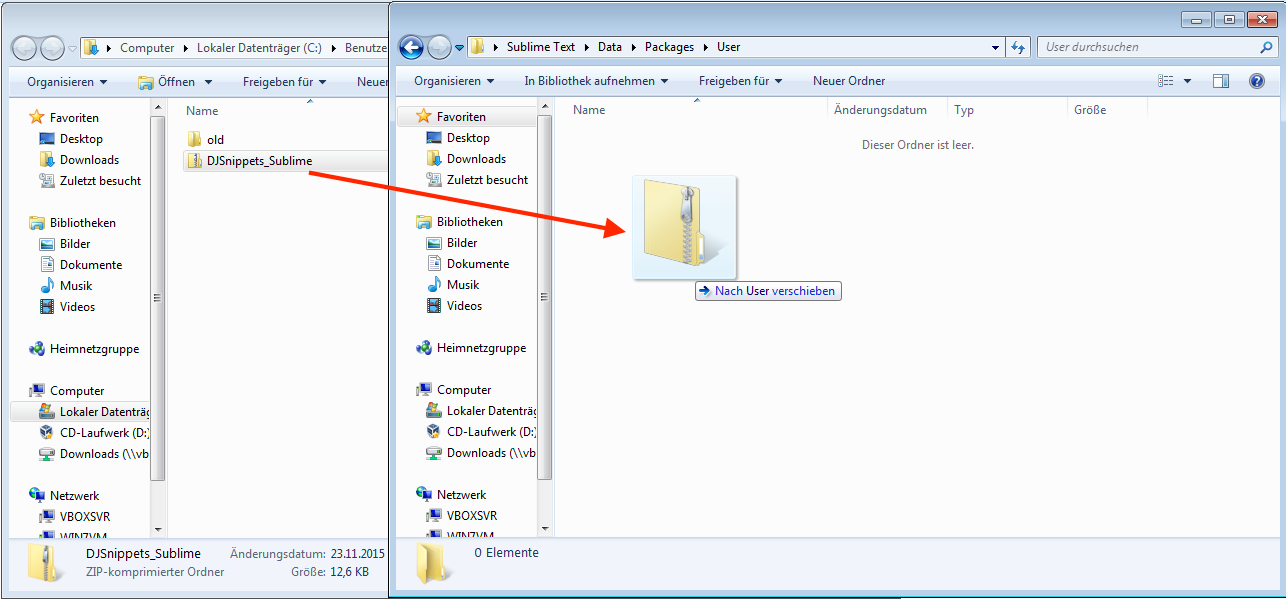
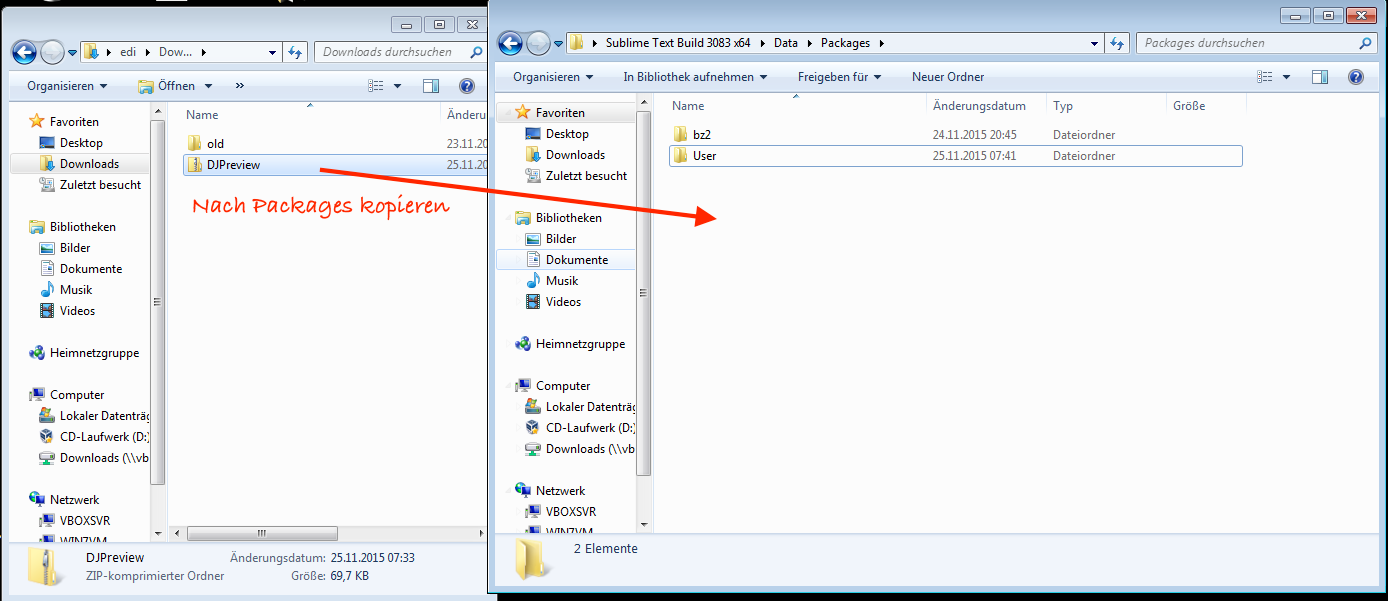
Changed doc

Changed region(s): [[0.0, 0.0, 1.0, 1.0]]

diff --git a/DJPreview.py b/DJPreview.py
@@ -3,8 +3,6 @@ import webbrowser, sys, os
 import tempfile
 import codecs
 
-# Add the directory containing your module to the Python path (wants absolute paths)
-# sys.path.append(os.path.abspath('.'))
 from .markdown2 import Markdown
 
 class DjPreviewCommand(sublime_plugin.TextCommand):

diff --git a/README.MD b/README.MD
@@ -3,7 +3,7 @@
 1. [Download der aktuellen Version von SublimeText](http://www.sublimetext.com/3) (in der Regel die Version für Windows 64-Bit, für Mac oder Linux die jeweils aktuelle Version)
 2. SublimeText starten
 3. Befehl **Windows:** "Preferences -> Browse Packages" / **Mac:** "SublimeText -> Preferences -> Browse Packages" auswählen. Es öffnet sich ein Fenster im Windows Explorer bzw. Finder (Mac). ![Befehl "Browse Packages"](https://github.com/ediathome/DJPreview/blob/master/demo/windows_01_browse_packages.png)
-4. Die [Zip-Datei](http://vt-learn.de/didplanapp/tmsnippets/DJPreview.zip) herunterladen und in den soeben geöffneten Ordner 'User' entpacken. ![Entpacken der Datei mit 7Zip](https://github.com/ediathome/DJPreview/blob/master/demo/windows_06_extract_zip.png)
+4. Die [Zip-Datei](http://vt-learn.de/didplanapp/tmsnippets/DJPreview.zip) herunterladen und in den soeben geöffneten Ordner 'Packages' entpacken. ![Entpacken der Datei mit 7Zip](https://github.com/ediathome/DJPreview/blob/master/demo/windows_06_extract_zip.png)
 
 5. In Sublime Text müssen Sie nun noch das Farbschema auswählen über "Preferences" -> "Color Scheme" -> "User" -> "DJPreview" -> "dj_standard" ![Auswählen des Farbschemas](https://github.com/ediathome/DJPreview/blob/master/demo/windows_07_color_scheme.png)
 6. Außerdem müssen Sie eventuell noch die Syntax auswählen. Klicken Sie dazu im Fenster unten rechts und wählen "Didaktische Jahresplanung" aus.
